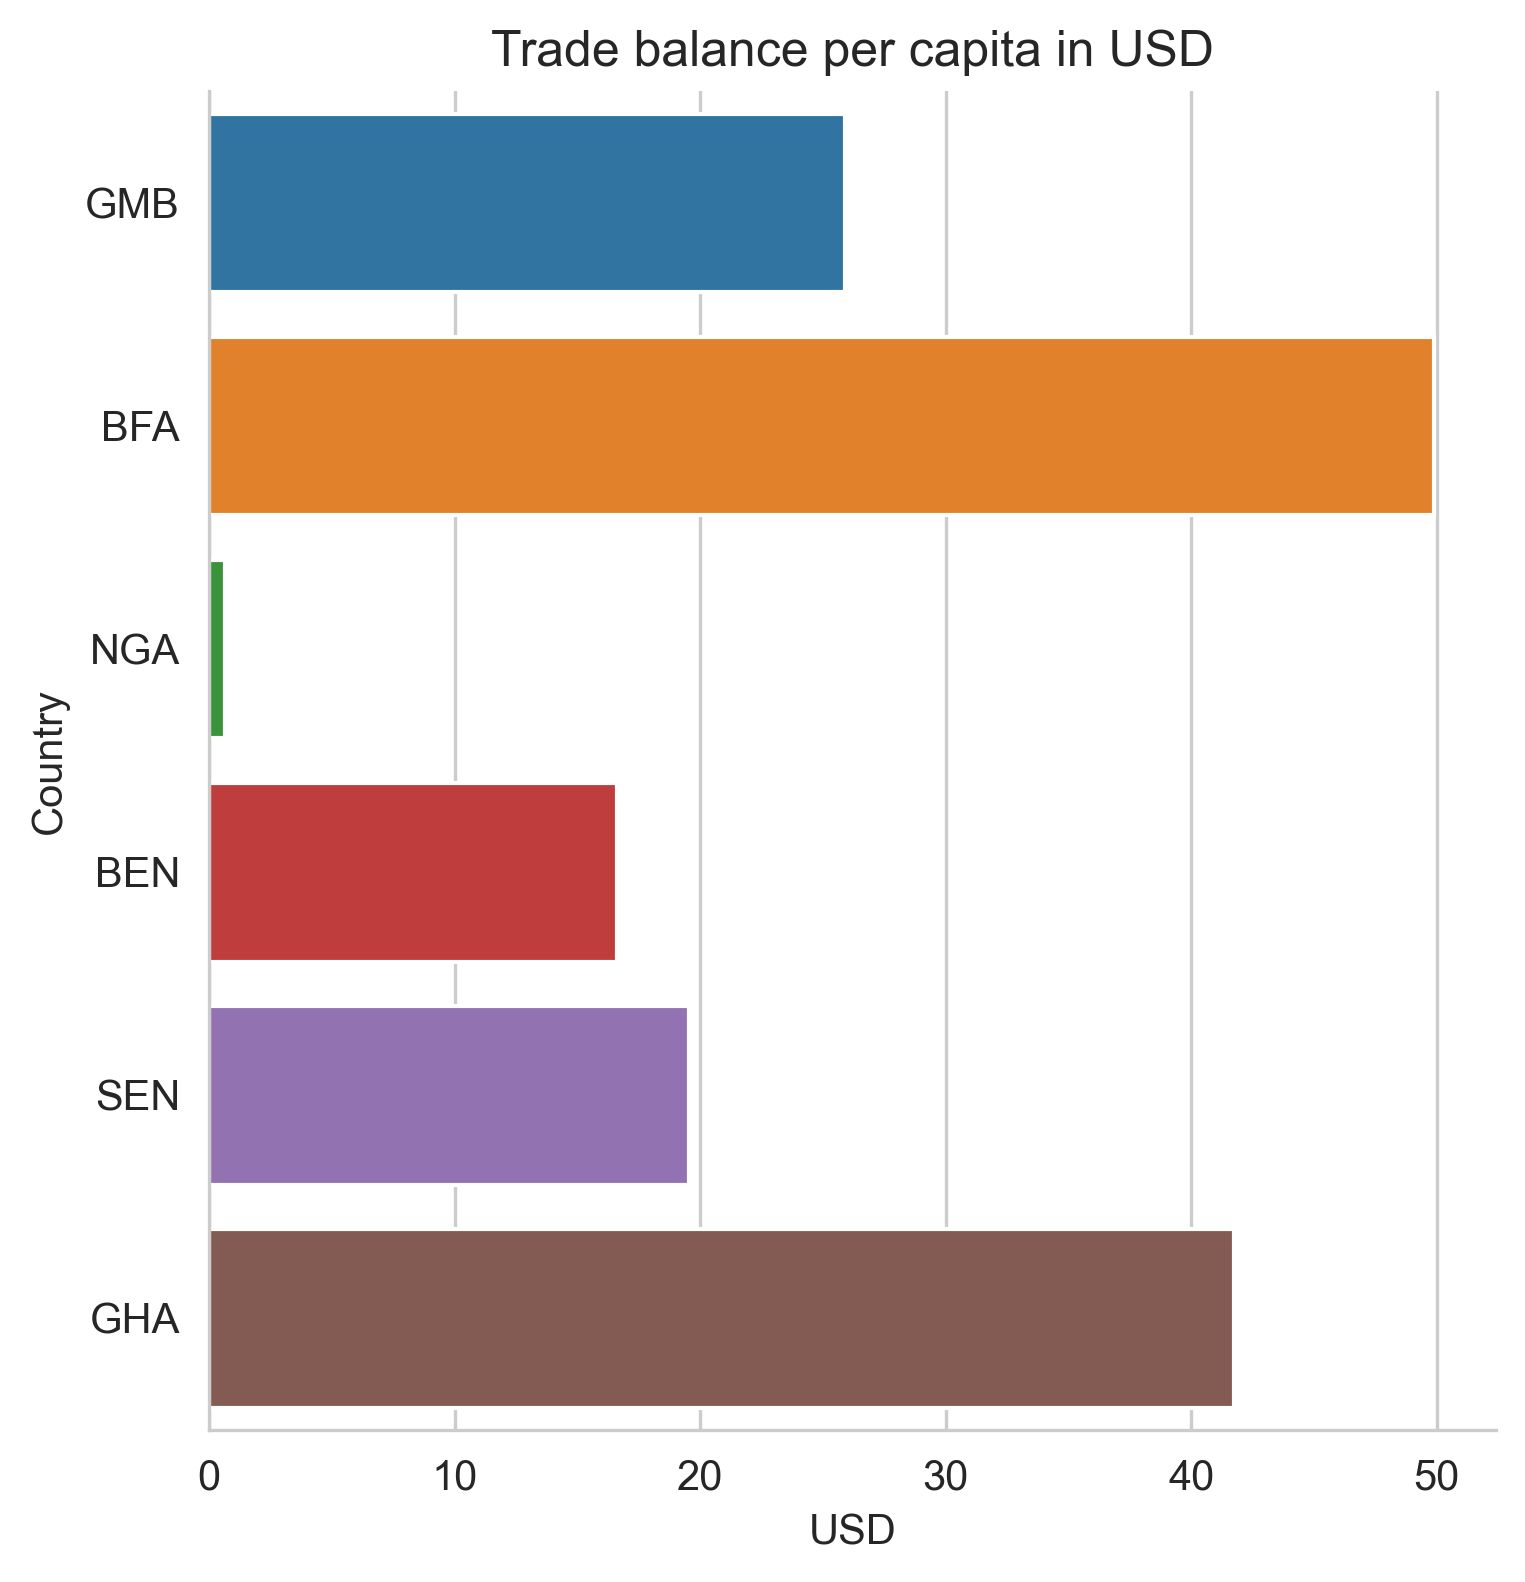
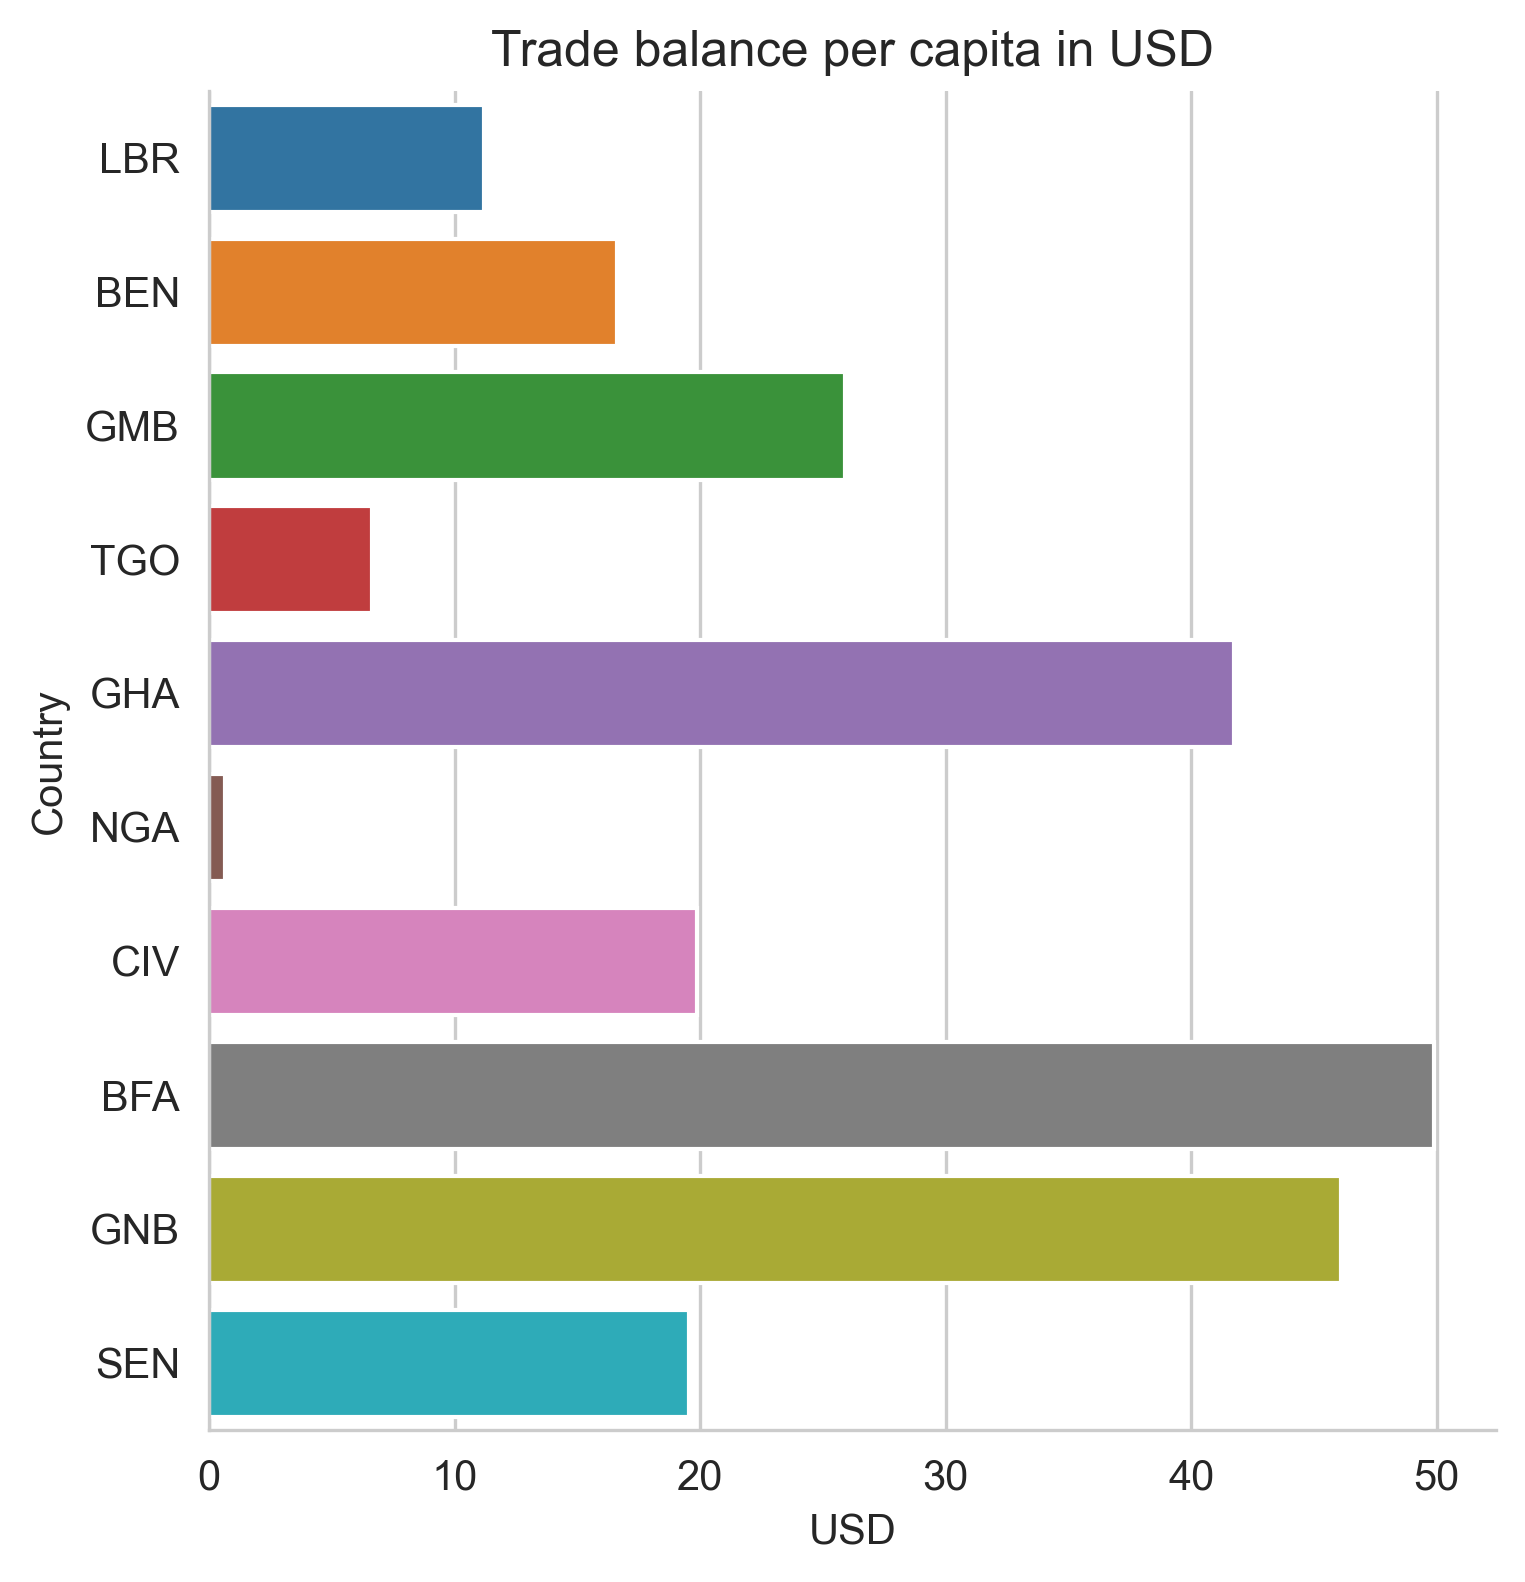
update remote

diff --git a/python/explore_energy_generation.py b/python/explore_energy_generation.py
@@ -80,8 +80,19 @@ sen_df = top10_products(labelled_df, 'SEN')
 bfa_df = top10_products(labelled_df, 'BFA')
 ben_df = top10_products(labelled_df, 'BEN')
 gmb_df = top10_products(labelled_df, 'GMB')
+tgo_df = top10_products(labelled_df, 'TGO')
+civ_df = top10_products(labelled_df, 'CIV')
+gnb_df = top10_products(labelled_df, 'GNB')
+lbr_df = top10_products(labelled_df, 'LBR')
 
 ### ASEAN 
+vnm_df = top10_products(labelled_df, 'VNM')
+sgp_df = top10_products(labelled_df, 'SGP')
+tha_df = top10_products(labelled_df, 'THA')
+phl_df = top10_products(labelled_df, 'PHL')
+mys_df = top10_products(labelled_df, 'MYS')
+idn_df = top10_products(labelled_df, 'IDN')
+khm_df = top10_products(labelled_df, 'KHM')
 
 ### OPEC 
 
@@ -130,6 +141,18 @@ plot_top10_partners(sen_df, 'SEN')
 plot_top10_partners(bfa_df, 'BFA')
 plot_top10_partners(ben_df, 'BEN')
 plot_top10_partners(gmb_df, 'GMB')
+plot_top10_partners(tgo_df, 'TGO')
+plot_top10_partners(civ_df, 'CIV')
+plot_top10_partners(gnb_df, 'GNB')
+plot_top10_partners(lbr_df, 'LBR')
+
+plot_top10_partners(vnm_df, 'VNM')
+plot_top10_partners(sgp_df, 'SGP')
+plot_top10_partners(tha_df, 'THA')
+plot_top10_partners(phl_df, 'PHL')
+plot_top10_partners(mys_df, 'MYS')
+plot_top10_partners(idn_df, 'IDN')
+plot_top10_partners(khm_df, 'KHM')
 # Combine the five datasets 
 combined_df = pl.concat([rwa_df, uga_df, ken_df, bdi_df, tza_df])
 #rwa_uga_df = combined_df.groupby(['location_code'])['trade_bal_by_population'].sum().reset_index()
@@ -166,7 +189,7 @@ plt.ylabel('Country')
 plt.savefig('../output/avg_trade_bal_per_capita_sadec.png', dpi=300, bbox_inches='tight')
 
 
-ecowas_df = pl.concat([gha_df, nga_df, sen_df, bfa_df, ben_df, gmb_df])
+ecowas_df = pl.concat([gha_df, nga_df, sen_df, bfa_df, ben_df, gmb_df, tgo_df, civ_df, gnb_df, lbr_df])
 aggregated_ecowas_df = (
     ecowas_df
     .groupby(['location_code'])
@@ -176,15 +199,24 @@ aggregated_ecowas_df = (
 
 print(aggregated_ecowas_df)
 
+asean_df = pl.concat([vnm_df, sgp_df, tha_df, phl_df, mys_df, idn_df, khm_df])
+aggregated_asean_df = (
+    asean_df
+    .groupby(['location_code'])
+    .agg(
+        pl.col('trade_bal_by_population').mean().alias('avg_trade_bal_per_capita')
+    ) )
+
+print(aggregated_asean_df)
 # Convert polars table to png and save to output
 # Write the code
 fig, ax = plt.subplots(figsize=(5, 3))
 sns.set_style("whitegrid")
-sns.factorplot(x='avg_trade_bal_per_capita', y='location_code', data=aggregated_ecowas_df.to_pandas(), kind='bar')
+sns.factorplot(x='avg_trade_bal_per_capita', y='location_code', data=aggregated_asean_df.to_pandas(), kind='bar')
 plt.title('Trade balance per capita in USD')
 plt.xlabel('USD')
 plt.ylabel('Country')
-plt.savefig('../output/avg_trade_bal_per_capita_ecowas.png', dpi=300, bbox_inches='tight')
+plt.savefig('../output/avg_trade_bal_per_capita_asean.png', dpi=300, bbox_inches='tight')
 # Plot bar plot with each subfigure representing a country code
 
 
